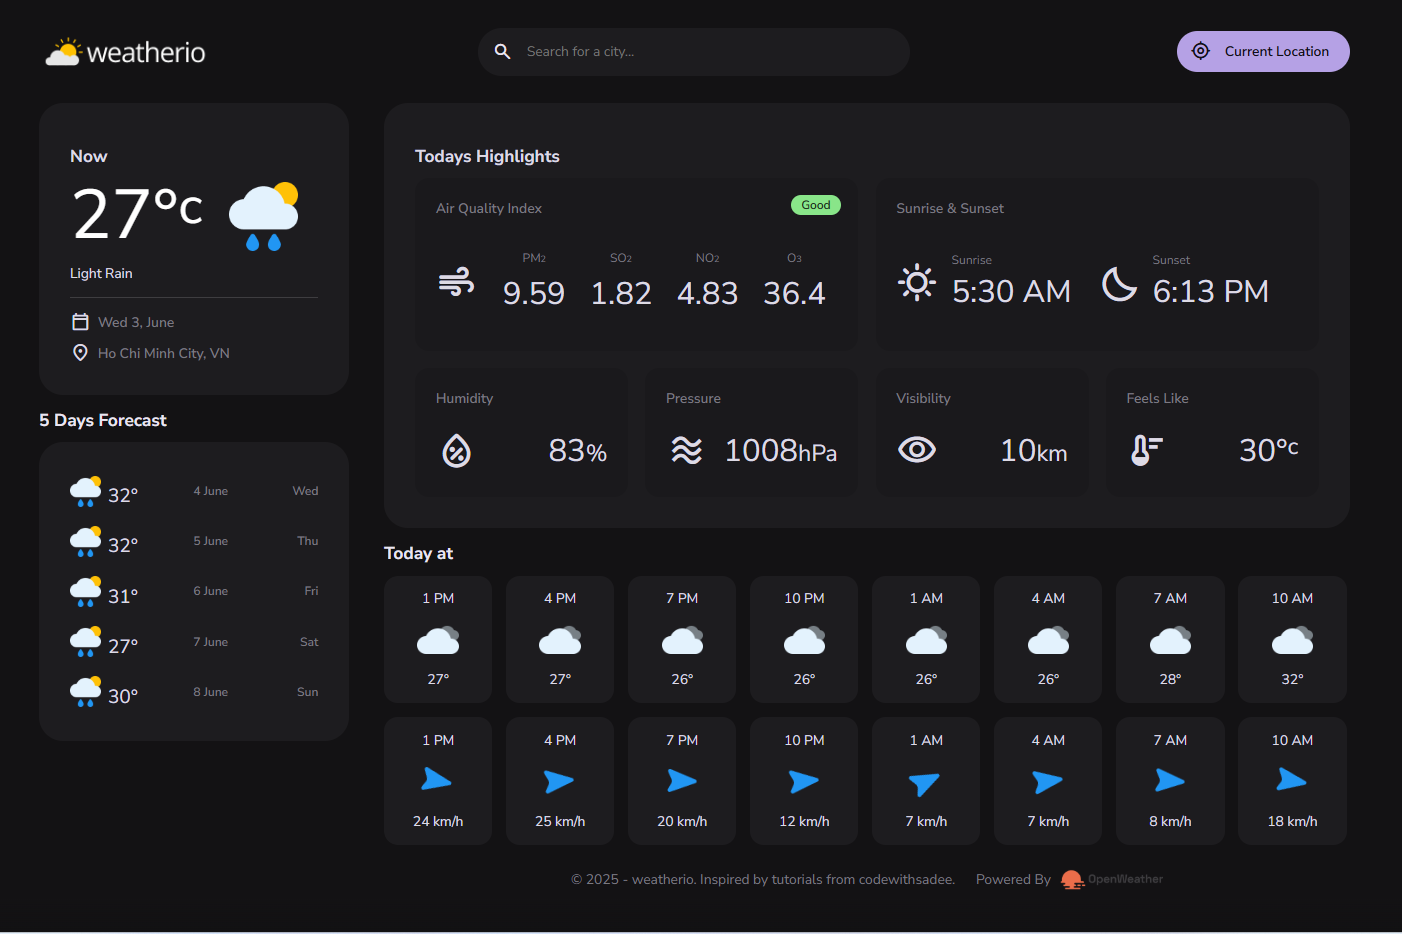
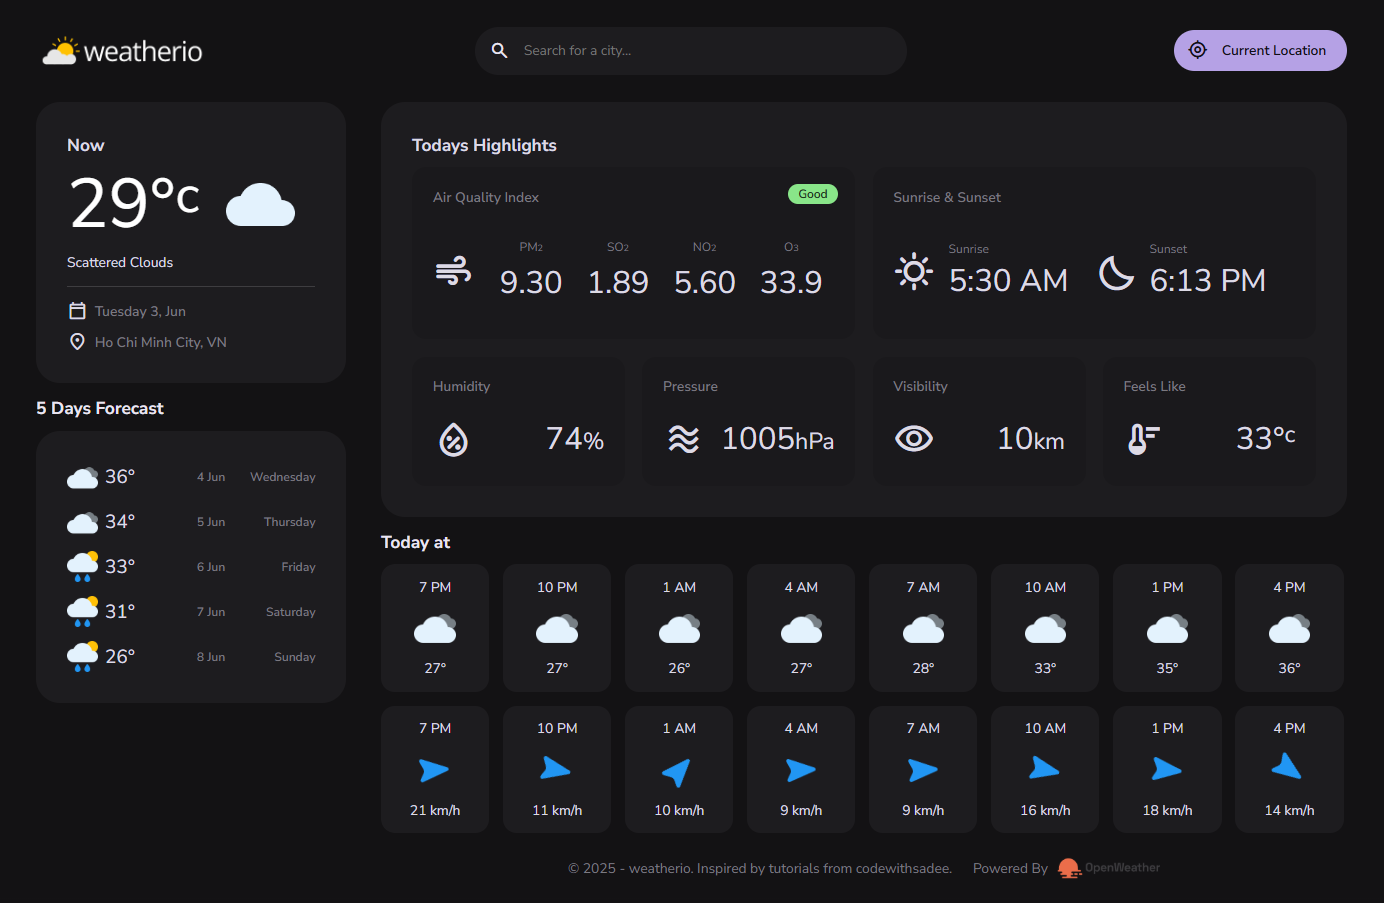
Fix Some Interface Errors

diff --git a/assets/js/app.js b/assets/js/app.js
@@ -18,7 +18,7 @@ const searchTogglers = document.querySelectorAll("[data-search-toggler]");
 const toggleSearch = () => {
   searchView.classList.toggle("active");
   searchResult.innerHTML = ""; // Xóa kết quả tìm kiếm
-  // searchField.value = ""; // Xóa nội dung đã nhập
+  searchField.value = ""; // Xóa nội dung đã nhập
 };
 addEventOnElements(searchTogglers, "click", toggleSearch);
 
@@ -347,10 +347,12 @@ export const updateWeather = function (lat, lon) {
       for (let i = 7, len = forecastList.length; i < len; i += 8) {
         const {
           main: { temp_max },
-          dt_txt,
+          weather,
+          dt: dateUnix,
         } = forecastList[i];
         const [{ icon, description }] = weather;
-        const date = new Date(dt_txt);
+        // const date = new Date(dt_txt);
+        const date = new Date((dateUnix + timezone) * 1000);
 
         const li = document.createElement("li");
         li.classList.add("card-item");

diff --git a/assets/js/module.js b/assets/js/module.js
@@ -1,18 +1,26 @@
 "use strict";
-export const weekDayNames = ["Mon", "Tue", "Wed", "Thu", "Fri", "Sat", "Sun"];
+export const weekDayNames = [
+  "Sunday",
+  "Monday",
+  "Tuesday",
+  "Wednesday",
+  "Thursday",
+  "Friday",
+  "Saturday",
+];
 export const monthNames = [
-  "January",
-  "February",
-  "March",
-  "April",
+  "Jan",
+  "Feb",
+  "Mar",
+  "Apr",
   "May",
-  "June",
-  "July",
-  "August",
-  "September",
-  "October",
-  "November",
-  "December",
+  "Jun",
+  "Jul",
+  "Aug",
+  "Sep",
+  "Oct",
+  "Nov",
+  "Dec",
 ];
 /**
  *

diff --git a/index.html b/index.html
@@ -10,7 +10,7 @@
       name="description"
       content="A simple weather application to check current weather conditions."
     />
-    <link rel="icon" href="./favicon.svg" type="image/svg+xml" />
+    <link rel="icon" href="./favicon_weatherio.svg" type="image/svg+xml" />
     <link rel="preconnect" href="https://fonts.googleapis.com" />
     <link rel="preconnect" href="https://fonts.gstatic.com" crossorigin />
     <link

diff --git a/assets/css/style.css b/assets/css/style.css
@@ -258,8 +258,8 @@ body {
 }
 .title-2 {
   font-size: var(--title-2);
-  /* margin-block-end: 12px; */
-  margin: 12px 0;
+  margin-block-end: 12px;
+  /* margin: 12px 0; */
 }
 .title-3 {
   font-size: var(--title-3);

diff --git a/README.md b/README.md
@@ -1,7 +1,7 @@
 # WeatherIO API 🌤
 
 <div align="center">
-<img src="./assets/images/interface.png" alt="App Interface" title="App Interface" width="600"/>
+<img src="./assets/images/interface.png" alt="App Interface" title="App Interface" width="800"/>
 <p><em>Weatherio Interface</em></p>
 </div>
 
